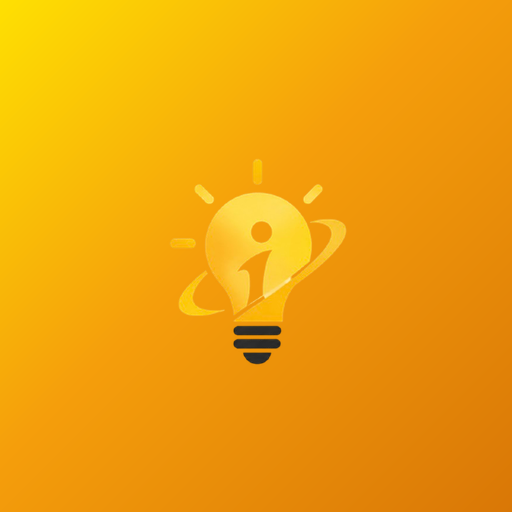
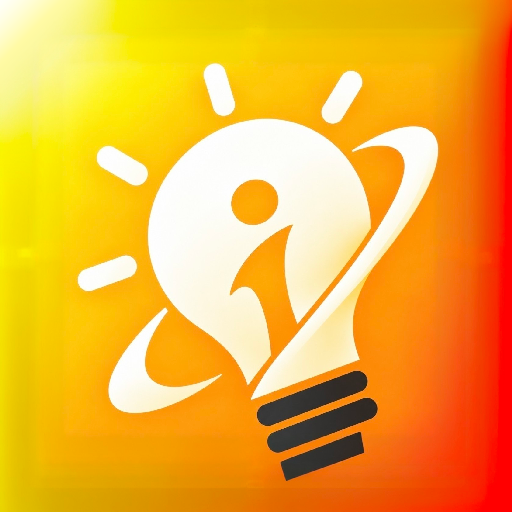
chore: update PWA assets and version
Bump application version to 2.0.3 and refresh PWA manifest, icons, and favicon versioning for improved caching and asset consistency.

diff --git a/src/data/platformManualData.ts b/src/data/platformManualData.ts
@@ -41,6 +41,21 @@ export interface PlatformVersionLog {
 
 export const INITIAL_VERSION_LOGS: PlatformVersionLog[] = [
   {
+    seqNumber: '#033',
+    version: 'v2.0.3',
+    releaseDate: '2026.10.15',
+    releaseTime: '21:55',
+    author: 'IdeaX 創點子體驗與架構治理核心',
+    summary: '專區名稱精簡為「L0討論區」、App 圖示更換為「擴邊黃底斜燈泡」與網頁縮圖定為「圓角正向黃底燈泡」、商務合作信箱統一為 ideax.office@gmail.com。',
+    changes: [
+      '專區名稱更新：將「L0問題討論區」統一更名為「L0討論區」，同步更新側邊欄、橫幅標題與導覽說明。',
+      'App 與網頁縮圖全面換裝：PWA App 圖示與下載卡片縮圖統一採用「擴邊黃底斜燈泡」，網頁分頁與分享縮圖採用「圓角正向黃底燈泡」，並推進 PWA Service Worker 快取 (v8)。',
+      'VibeCoding 創新應用展場優化：展場名稱為「VibeCoding 創新應用」，按鈕統一為「刊登創新應用」，並將說明文字與特色標籤整合收入「說明 (?)」收合區塊。',
+      '商務與企業合作信箱統一：關於我們頁面之商務與企業合作信箱統一改用 ideax.office@gmail.com。',
+      '平台版本正式推進至 v2.0.3 (#033)，全站標記、手冊與頁尾同步更新。',
+    ],
+  },
+  {
     seqNumber: '#030',
     version: 'v2.0.0',
     releaseDate: '2026.10.14',
@@ -423,10 +438,10 @@ export const DEFAULT_PLATFORM_DOCUMENTS: PlatformDocument[] = [
         summary: '管理當前系統運作版本號、增量序號與最後更新時間戳記。',
         content: `### 當前運行版本與序號規格
 
-* **版本號碼**：v2.0.2
-* **遞增序號**：#032（從 #001 依序遞增）
+* **版本號碼**：v2.0.3
+* **遞增序號**：#033（從 #001 依序遞增）
 * **最後更新日期**：2026.10.15
-* **最後更新時間**：08:20（依發布時戳靜態留存，不隨時鐘跳動）
+* **最後更新時間**：21:55（依發布時戳靜態留存，不隨時鐘跳動）
 * **發布狀態**：Production（正式運作中）
 * **運作模式**：單日 0.2.0 增量限制、四選一平台運營模式與完整歷史版本隨時調閱與下載。`,
       },
@@ -485,6 +500,7 @@ export const DEFAULT_PLATFORM_DOCUMENTS: PlatformDocument[] = [
 
 | 序號 | 版本號 | 發布日期 | 發布時間 (UTC+8) | 責任單位 | 主要更新項目 |
 | :--- | :--- | :--- | :--- | :--- | :--- |
+| **#033** | **v2.0.3** | 2026.10.15 | 21:55 | IdeaX 創點子核心 | 專區更名為「L0討論區」、VibeCoding 創新應用展場說明收合與「刊登創新應用」文案優化、商務合作信箱統一為 ideax.office@gmail.com |
 | **#032** | **v2.0.2** | 2026.10.15 | 08:20 | IdeaX 創點子核心 | 提案封面照片防重複機制與雜湊圖片池、手機版提案卡片精簡與「？」收合展開說明、VibeCoding 個別案例展示頁客製化呈現、提案與痛點雙向關聯渲染與點擊互聯跳轉 |
 | **#030** | **v2.0.0** | 2026.10.14 | 18:00 | IdeaX 創點子核心 | 提案發布欄位動態適應優化（五類提案標題/痛點背景/VibeCoding說明客製化標籤與預設 Prompt）、管理員後台累計打賞總額指標、服務條款免責聲明與違規檢舉機制 |
 | **#026** | **v1.8.3** | 2026.10.11 | 11:50 | IdeaX 創點子核心 | 核心數據數據精準化校正（註冊人數嚴格排除測試與預設帳號、真實即時線上人數 Heartbeat 追蹤、總瀏覽量更名為網站造訪量）、創星季切換帳號與登出按鍵風格一致化、交易完成需求方滿意度評分（1~5星） |

diff --git a/index.html b/index.html
@@ -23,22 +23,22 @@
     <meta name="twitter:description" content="IdeaX 創點子 — 讓想法發光！高價值問題與解決方案交易市場，提供懸賞、深度解鎖、AI 智能媒合與專家變現。" />
     <meta name="twitter:image" content="https://www.ideax.tw/ideax-thumbnail.png" />
     <meta name="twitter:image:alt" content="IdeaX 創點子 — 讓想法發光" />
-    <link rel="manifest" href="/manifest.json?v=pwa-app-16" />
+    <link rel="manifest" href="/manifest.json?v=pwa-app-18" />
     <meta name="theme-color" content="#F59E0B" />
     <meta name="mobile-web-app-capable" content="yes" />
     <meta name="apple-mobile-web-app-capable" content="yes" />
     <meta name="apple-mobile-web-app-status-bar-style" content="default" />
     <meta name="apple-mobile-web-app-title" content="IdeaX創點子" />
     <!-- 網頁瀏覽器分頁標籤與縮圖 (Webpage Thumbnail & Favicon: 專屬圓角正向黃底燈泡) -->
-    <link rel="icon" type="image/png" href="/ideax-thumbnail.png" />
-    <link rel="shortcut icon" href="/ideax-thumbnail.png" />
-    <link rel="icon" type="image/png" sizes="96x96" href="/favicon-96x96.png?v=web-bulb-10" />
-    <link rel="icon" type="image/png" sizes="48x48" href="/favicon-48x48.png?v=web-bulb-10" />
-    <link rel="icon" type="image/png" sizes="32x32" href="/favicon-32x32.png?v=web-bulb-10" />
-    <link rel="icon" type="image/png" sizes="16x16" href="/favicon-16x16.png?v=web-bulb-10" />
+    <link rel="icon" type="image/png" href="/ideax-thumbnail.png?v=web-bulb-18" />
+    <link rel="shortcut icon" href="/ideax-thumbnail.png?v=web-bulb-18" />
+    <link rel="icon" type="image/png" sizes="96x96" href="/favicon-96x96.png?v=web-bulb-18" />
+    <link rel="icon" type="image/png" sizes="48x48" href="/favicon-48x48.png?v=web-bulb-18" />
+    <link rel="icon" type="image/png" sizes="32x32" href="/favicon-32x32.png?v=web-bulb-18" />
+    <link rel="icon" type="image/png" sizes="16x16" href="/favicon-16x16.png?v=web-bulb-18" />
 
-    <!-- PWA APP 行動與桌面專屬應用程式圖標 (使用 pwa-maskable) -->
-    <link rel="apple-touch-icon" sizes="180x180" href="/pwa-maskable-512x512.png?v=pwa-app-17" />
+    <!-- PWA APP 行動與桌面專屬應用程式圖標 (使用擴邊黃底斜燈泡) -->
+    <link rel="apple-touch-icon" sizes="180x180" href="/pwa-maskable-512x512.png?v=pwa-app-18" />
     <!-- Schema.org JSON-LD: 包含 WebApplication、WebSite (Google Sitelinks 搜尋框) 與 ItemList / SiteNavigationElement (Google 搜尋多個分頁捷徑) -->
     <script type="application/ld+json">
     {

diff --git a/src/components/AboutUsView.tsx b/src/components/AboutUsView.tsx
@@ -777,11 +777,11 @@ export const AboutUsView: React.FC<AboutUsViewProps> = ({
             <div className="relative z-10 space-y-6">
               <div className="flex flex-col sm:flex-row sm:items-center justify-between gap-4">
                 <div className="flex items-center gap-3">
-                  <div className="w-8 h-8 sm:w-8.5 sm:h-8.5 rounded-lg overflow-hidden border border-amber-400/40 bg-white/95 p-0.5 flex items-center justify-center shrink-0 shadow-md shadow-amber-500/10">
+                  <div className="w-10 h-10 sm:w-11 sm:h-11 rounded-xl overflow-hidden border border-amber-400/40 bg-white/95 p-0.5 flex items-center justify-center shrink-0 shadow-md shadow-amber-500/10">
                     <img
-                      src="/pwa-maskable-512x512.png"
+                      src="/pwa-maskable-512x512.png?v=pwa-app-18"
                       alt="IdeaX創點子"
-                      className="w-full h-full object-contain"
+                      className="w-full h-full object-cover rounded-lg"
                     />
                   </div>
                   <div>
@@ -1163,7 +1163,7 @@ export const AboutUsView: React.FC<AboutUsViewProps> = ({
                 </div>
                 <button
                   type="button"
-                  onClick={() => handleCopy('business@ideax.tw', '商務信箱')}
+                  onClick={() => handleCopy('ideax.office@gmail.com', '商務信箱')}
                   className="text-[11px] font-bold text-stone-600 hover:text-stone-900 bg-stone-100 hover:bg-stone-200/70 px-2 py-0.5 rounded-lg flex items-center gap-1 transition-colors cursor-pointer"
                 >
                   {copiedEmail === '商務信箱' ? (
@@ -1177,10 +1177,10 @@ export const AboutUsView: React.FC<AboutUsViewProps> = ({
               <div>
                 <span className="text-xs font-bold text-stone-900 block">商務與企業合作</span>
                 <a
-                  href="mailto:business@ideax.tw"
+                  href="mailto:ideax.office@gmail.com"
                   className="text-xs font-mono font-bold text-indigo-600 hover:underline block mt-0.5"
                 >
-                  business@ideax.tw
+                  ideax.office@gmail.com
                 </a>
               </div>
               <p className="text-[11px] text-stone-500 leading-relaxed">

diff --git a/src/components/AdminDashboardModal.tsx b/src/components/AdminDashboardModal.tsx
@@ -1943,7 +1943,7 @@ export const AdminDashboardModal: React.FC<AdminDashboardModalProps> = ({ onClos
               )}
               {pendingConfirm.type === 'race' && (
                 pendingConfirm.nextState
-                  ? '即將開啟【競賽模式 (RACE)】：（全站平台同步生效）舊站問題市場將提供「創點子/痛點集」與「L0問題討論區」主題捷徑，痛點限定 L0 且標注綠色「創星季」標籤與獨立網址，方案以競賽圖文卡片展示並含獨立網址；頁尾同步顯示 RACE 簡稱。本模式與正式營運、無金流、測試環境為四選一互斥。'
+                  ? '即將開啟【競賽模式 (RACE)】：（全站平台同步生效）舊站問題市場將提供「創點子/痛點集」與「L0討論區」主題捷徑，痛點限定 L0 且標注綠色「創星季」標籤與獨立網址，方案以競賽圖文卡片展示並含獨立網址；頁尾同步顯示 RACE 簡稱。本模式與正式營運、無金流、測試環境為四選一互斥。'
                   : '即將關閉【競賽模式】：系統將自動切換為【正式營運模式 (NORM)】。'
               )}
               {pendingConfirm.type === 'demo' && (

diff --git a/src/components/UserDashboardModal.tsx b/src/components/UserDashboardModal.tsx
@@ -10747,7 +10747,7 @@ export const UserDashboardModal: React.FC<UserDashboardModalProps> = ({
                 pendingModeConfirm.nextState ? (
                   <p>
                     <strong>即將開啟【競賽模式 (RACE)】：（全站平台同步生效）</strong><br />
-                    舊站問題市場將提供<strong>「創點子/痛點集」與「L0問題討論區」主題捷徑</strong>，痛點限定 L0 且標注綠色「創星季」標籤與獨立網址，方案以競賽圖文卡片展示並含獨立網址；全站頁尾同步顯示英文簡稱 <strong>RACE</strong>。本模式與正式營運、無金流、測試環境為四選一互斥。
+                    舊站問題市場將提供<strong>「創點子/痛點集」與「L0討論區」主題捷徑</strong>，痛點限定 L0 且標注綠色「創星季」標籤與獨立網址，方案以競賽圖文卡片展示並含獨立網址；全站頁尾同步顯示英文簡稱 <strong>RACE</strong>。本模式與正式營運、無金流、測試環境為四選一互斥。
                   </p>
                 ) : (
                   <p>

diff --git a/src/App.tsx b/src/App.tsx
@@ -1648,7 +1648,7 @@ function MainContent() {
                       </div>
                       <div className="flex items-center gap-2 flex-wrap">
                         <h3 className="text-base sm:text-lg font-black text-stone-900 flex items-center gap-2">
-                          <span>L0問題討論區</span>
+                          <span>L0討論區</span>
                           <button
                             onClick={() => handleTogglePin('special_zone', 'l0_discussion')}
                             className={`p-1 rounded-lg transition-all cursor-pointer ${
@@ -1665,7 +1665,7 @@ function MainContent() {
                           </span>
                         </h3>
                         <HelpTooltip
-                          title="L0問題討論區說明"
+                          title="L0討論區說明"
                           content="無門檻日常交流、閒聊討論、觀點碰撞與輕量求助。完全免費公開，適合社群激盪與早期方向探索。"
                           onLearnMore={() => setActiveTab('about')}
                         />

diff --git a/src/components/CategorySidebar.tsx b/src/components/CategorySidebar.tsx
@@ -519,7 +519,7 @@ export const CategorySidebar: React.FC<CategorySidebarProps> = ({
               </span>
             </button>
 
-            {/* ② ［L0問題討論區］ */}
+            {/* ② ［L0討論區］ */}
             <button
               onClick={() => handleSelectZone('l0_discussion')}
               className={`w-full p-3 rounded-2xl border text-left transition-all flex items-center justify-between cursor-pointer group ${
@@ -534,7 +534,7 @@ export const CategorySidebar: React.FC<CategorySidebarProps> = ({
                 </div>
                 <div>
                   <div className="text-xs sm:text-sm font-black text-stone-900 group-hover:text-blue-700 transition-colors flex items-center gap-1.5">
-                    <span>L0問題討論區</span>
+                    <span>L0討論區</span>
                   </div>
                   <p className="text-[10px] text-stone-500 mt-0.5 line-clamp-1">
                     無賞金交流、閒聊討論與觀點碰撞

diff --git a/src/components/PwaInstallModal.tsx b/src/components/PwaInstallModal.tsx
@@ -127,11 +127,11 @@ export const PwaInstallModal: React.FC<PwaInstallModalProps> = ({ isOpen, onClos
           </button>
 
           <div className="flex items-center gap-2.5 mb-3">
-            <div className="w-7.5 h-7.5 sm:w-8 sm:h-8 rounded-lg overflow-hidden border border-amber-400/40 bg-white/95 p-0.5 flex items-center justify-center shrink-0 shadow-sm">
+            <div className="w-9 h-9 sm:w-10 sm:h-10 rounded-xl overflow-hidden border border-amber-400/40 bg-white/95 p-0.5 flex items-center justify-center shrink-0 shadow-sm">
               <img
-                src="/pwa-maskable-512x512.png?v=pwa-app-17"
+                src="/pwa-maskable-512x512.png?v=pwa-app-18"
                 alt="IdeaX創點子"
-                className="w-full h-full object-contain rounded-md"
+                className="w-full h-full object-cover rounded-lg"
               />
             </div>
             <div>

diff --git a/src/data/versionData.ts b/src/data/versionData.ts
@@ -2,9 +2,9 @@
  * 平台版本與發布資訊統一設定
  * 最後更新時間固定依版本發布紀錄（不隨系統時鐘動態跳動）
  */
-export const APP_VERSION = '2.0.2';
+export const APP_VERSION = '2.0.3';
 export const APP_RELEASE_DATE = '2026.10.15';
-export const APP_RELEASE_TIME = '08:20';
-export const APP_LAST_UPDATED = '2026.10.15 08:20 (UTC+8)';
+export const APP_RELEASE_TIME = '21:55';
+export const APP_LAST_UPDATED = '2026.10.15 21:55 (UTC+8)';
 export const APP_TIMEZONE = 'UTC+8';
-export const APP_SEQUENCE_NUMBER = '#032';
+export const APP_SEQUENCE_NUMBER = '#033';

diff --git a/src/components/AppOnboardingGuide.tsx b/src/components/AppOnboardingGuide.tsx
@@ -89,7 +89,7 @@ const ONBOARDING_STEPS: OnboardingStepConfig[] = [
   },
   {
     id: 7,
-    title: '7. 痛點許願池 & L0問題討論區',
+    title: '7. 痛點許願池 & L0討論區',
     targetId: 'onboarding-step-7-special-zones',
     icon: Lightbulb,
     targetTab: 'explore',

diff --git a/public/sw.js b/public/sw.js
@@ -1,5 +1,5 @@
 // IdeaX 創點子 - Progressive Web App Service Worker
-const CACHE_NAME = 'ideax-pwa-v7';
+const CACHE_NAME = 'ideax-pwa-v8';
 const PRECACHE_ASSETS = [
   '/',
   '/index.html',
